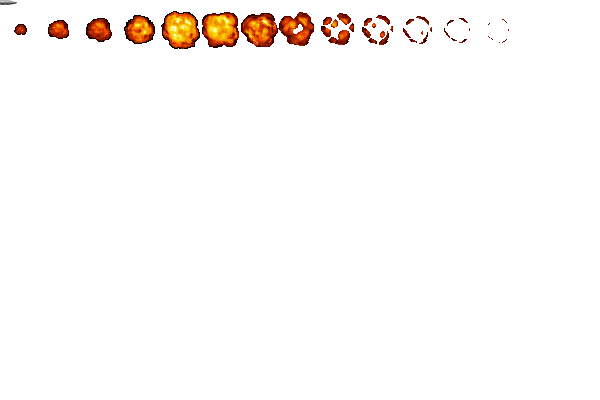
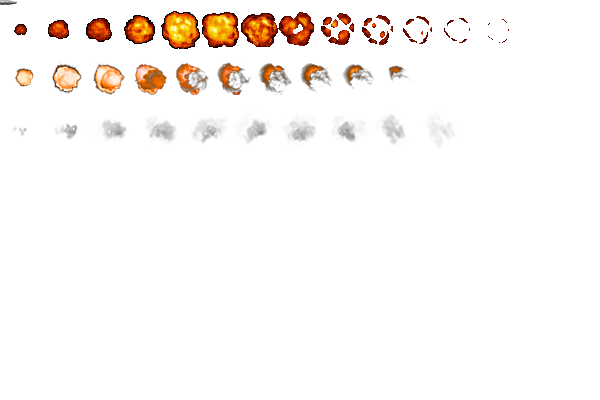
Доделано меню смены танка

diff --git a/Tank Wars/MenuSettings.cpp b/Tank Wars/MenuSettings.cpp
@@ -44,6 +44,11 @@ int MenuSettings::run(RenderWindow &window)
 
     int choise = MENU_NULL;
 
+    Vector2f menuPos;
+    menuPos.x = view.getCenter().x - view.getSize().x / 2;
+    menuPos.y = view.getCenter().y - view.getSize().y / 2;
+    background.setPosition(menuPos);
+
     while (true) {
         while (window.pollEvent(event)) {
             if (event.type == Event::Closed) {
@@ -70,6 +75,8 @@ int MenuSettings::run(RenderWindow &window)
         choise = MENU_NULL;
         for (std::vector<Setting>::iterator it = settings.begin();
             it != settings.end(); it++) {
+
+            (*it).text.setPosition((*it).pos.x + menuPos.x, (*it).pos.y + menuPos.y);
 
             if (((*it).id >= 1) && ((*it).id <= 4)) {
                 (*it).text.setString((*it).name + L"  " + getNameOfValue(it));
@@ -158,7 +165,7 @@ void  MenuSettings::saveSettings(RenderWindow &window)
         window.setVerticalSyncEnabled(false);
     }
     window.setMouseCursorVisible(false);
-    window.setFramerateLimit(60);
+    //window.setFramerateLimit(60);
 
     std::ofstream fout("data\\settings.dat", std::ios::out);
     fout << isSoundOn << " " << graphicsSettings  << " " <<

diff --git a/Tank Wars/Bullet.cpp b/Tank Wars/Bullet.cpp
@@ -1,7 +1,8 @@
 #include "Bullet.h"
 
 
-Bullet::Bullet(Vector2f pos, float angle, Texture *tex, IntRect rect, int damage) :
+Bullet::Bullet(std::list<Animation*> &anims, Vector2f pos, float angle,
+    Texture *tex, IntRect rect, int damage) :
 GameObject(pos, *tex, rect)
 {
     texture = tex;
@@ -12,6 +13,9 @@ GameObject(pos, *tex, rect)
     dx = (speed) / 1000 * cos(angle * 3.14 / 180);
     dy = (speed) / 1000 * sin(angle * 3.14 / 180);
     life = true;
+
+    anims.push_back(new Animation(*texture, 10, false, IntRect(0, 107, 45, 45),
+        Vector2f(position.x, position.y)));
 }
 
 void Bullet::update(double time, View &view, RenderWindow &window,
@@ -48,8 +52,11 @@ void Bullet::Destroy(std::list<Animation*> &anims)
 {
     life = false;
 
-    if (graphicsSettings == HIGH) {
+    if (graphicsSettings == LOW) {
         anims.push_back(new Animation(*texture, 13, false, IntRect(0, 10, 40, 40),
+            Vector2f(position.x, position.y)));
+    } else {
+        anims.push_back(new Animation(*texture, 10, false, IntRect(5, 56, 40, 40),
             Vector2f(position.x, position.y)));
     }
 }

diff --git a/Tank Wars/Crosshair.cpp b/Tank Wars/Crosshair.cpp
@@ -11,6 +11,8 @@ GameObject(pos, tex, rect)
 
     tankInfo.setFont(font);
     tankInfo.setCharacterSize(20);
+
+    isVisible = true;
 }
 
 
@@ -56,7 +58,13 @@ void Crosshair::update(Vector2f pos, std::list<Enemy*> &enemies, Player &player)
 
 void Crosshair::draw(RenderWindow &window)
 {
-    GameObject::draw(window);
-    window.draw(timeBeforeShoot);
-    window.draw(tankInfo);
+    if (isVisible) {
+        GameObject::draw(window);
+        window.draw(timeBeforeShoot);
+        window.draw(tankInfo);
+    }
+}
+
+void Crosshair::setVisibility(bool visibility) {
+    isVisible = visibility;
 }

diff --git a/Tank Wars/Tank.h b/Tank Wars/Tank.h
@@ -22,6 +22,7 @@ class Tank :
 {
 private:
     int prevDir;
+    Vector2f backupPos;
 protected:
     //Tank
     Texture texTurrel;
@@ -57,7 +58,8 @@ public:
         std::list<Animation*> &anims);
 
     void draw(RenderWindow &window);
-    void fire(std::list<Bullet*> &bullets, Texture &texBullet);
+    void fire(std::list<Animation*> &anims, 
+        std::list<Bullet*> &bullets, Texture &texBullet);
     void getDamage(int damage);
 
     std::wstring getTankName();

diff --git a/Tank Wars/Bullet.h b/Tank Wars/Bullet.h
@@ -19,7 +19,8 @@ private:
     int damage;
     Texture *texture;
 public:
-    Bullet(Vector2f pos, float angle, Texture *tex, IntRect rect, int damage);
+    Bullet(std::list<Animation*> &anims, Vector2f pos, float angle,
+        Texture *tex, IntRect rect, int damage);
     void update(double time, View &view, RenderWindow &window,
         std::list<GameObject*> &objects, std::list<Animation*> &anims);
     bool isAlive();

diff --git a/Tank Wars/Animation.cpp b/Tank Wars/Animation.cpp
@@ -7,7 +7,7 @@ void Animation::update(double time)
         IntRect currentRect = sprite.getTextureRect();
         sprite.setTextureRect(IntRect(firstRect.left + currentRect.width * (int)currentFrame,
             currentRect.top, currentRect.width, currentRect.height)); 
-        currentFrame += currentFrame * time / 100;        
+        currentFrame += currentFrame * time / 150;        
     }    
 }
 
